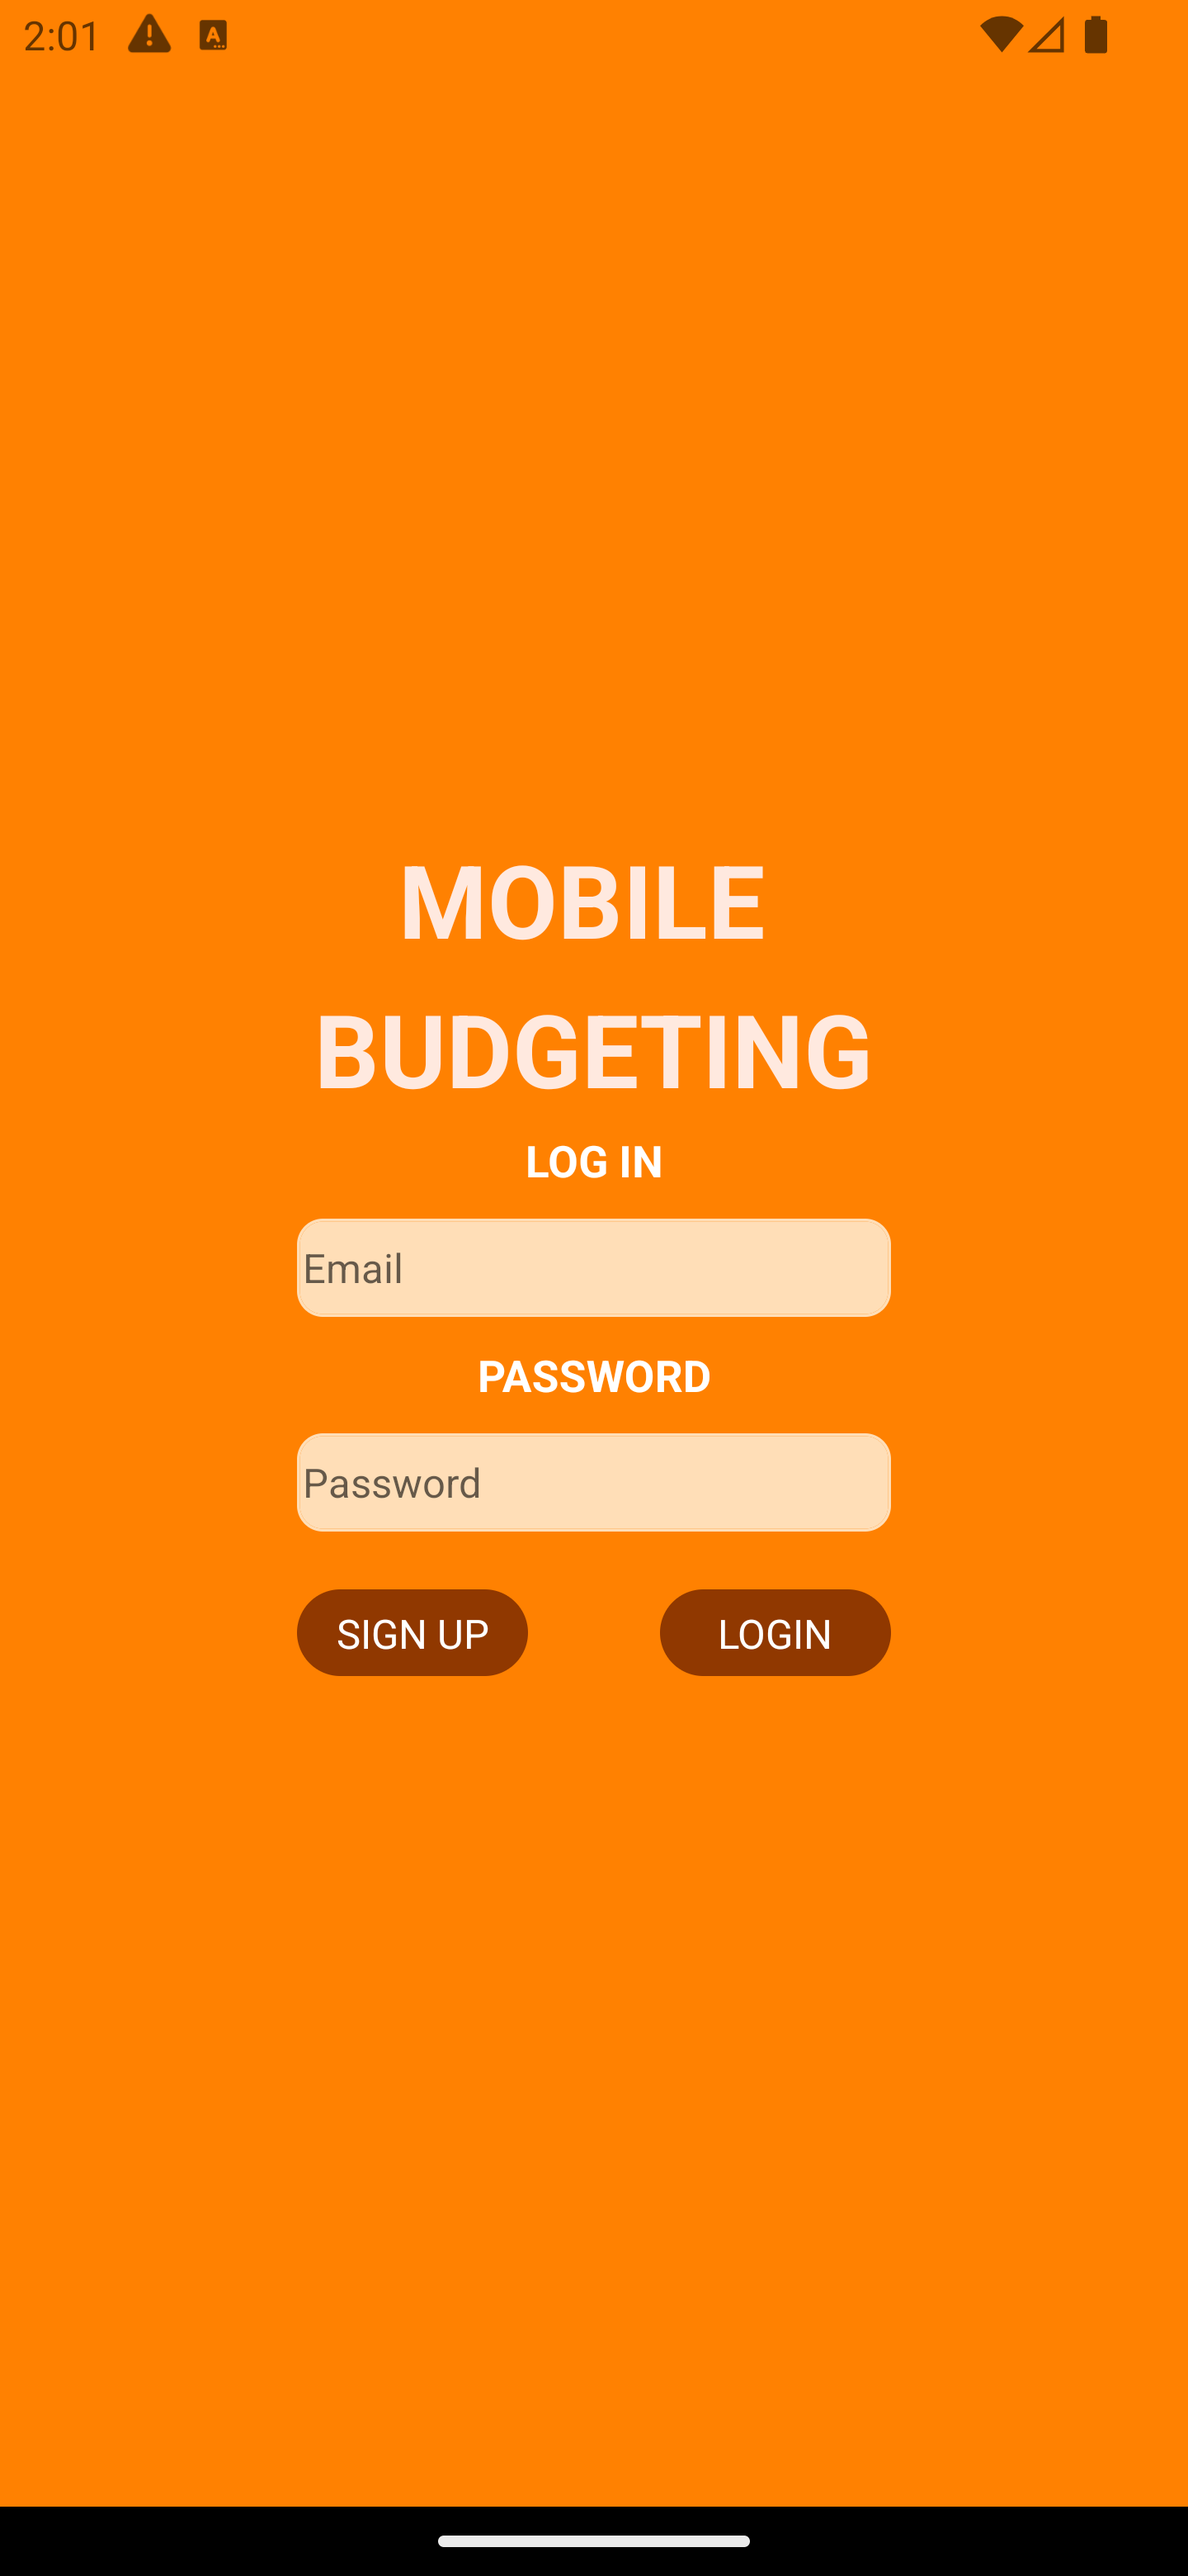
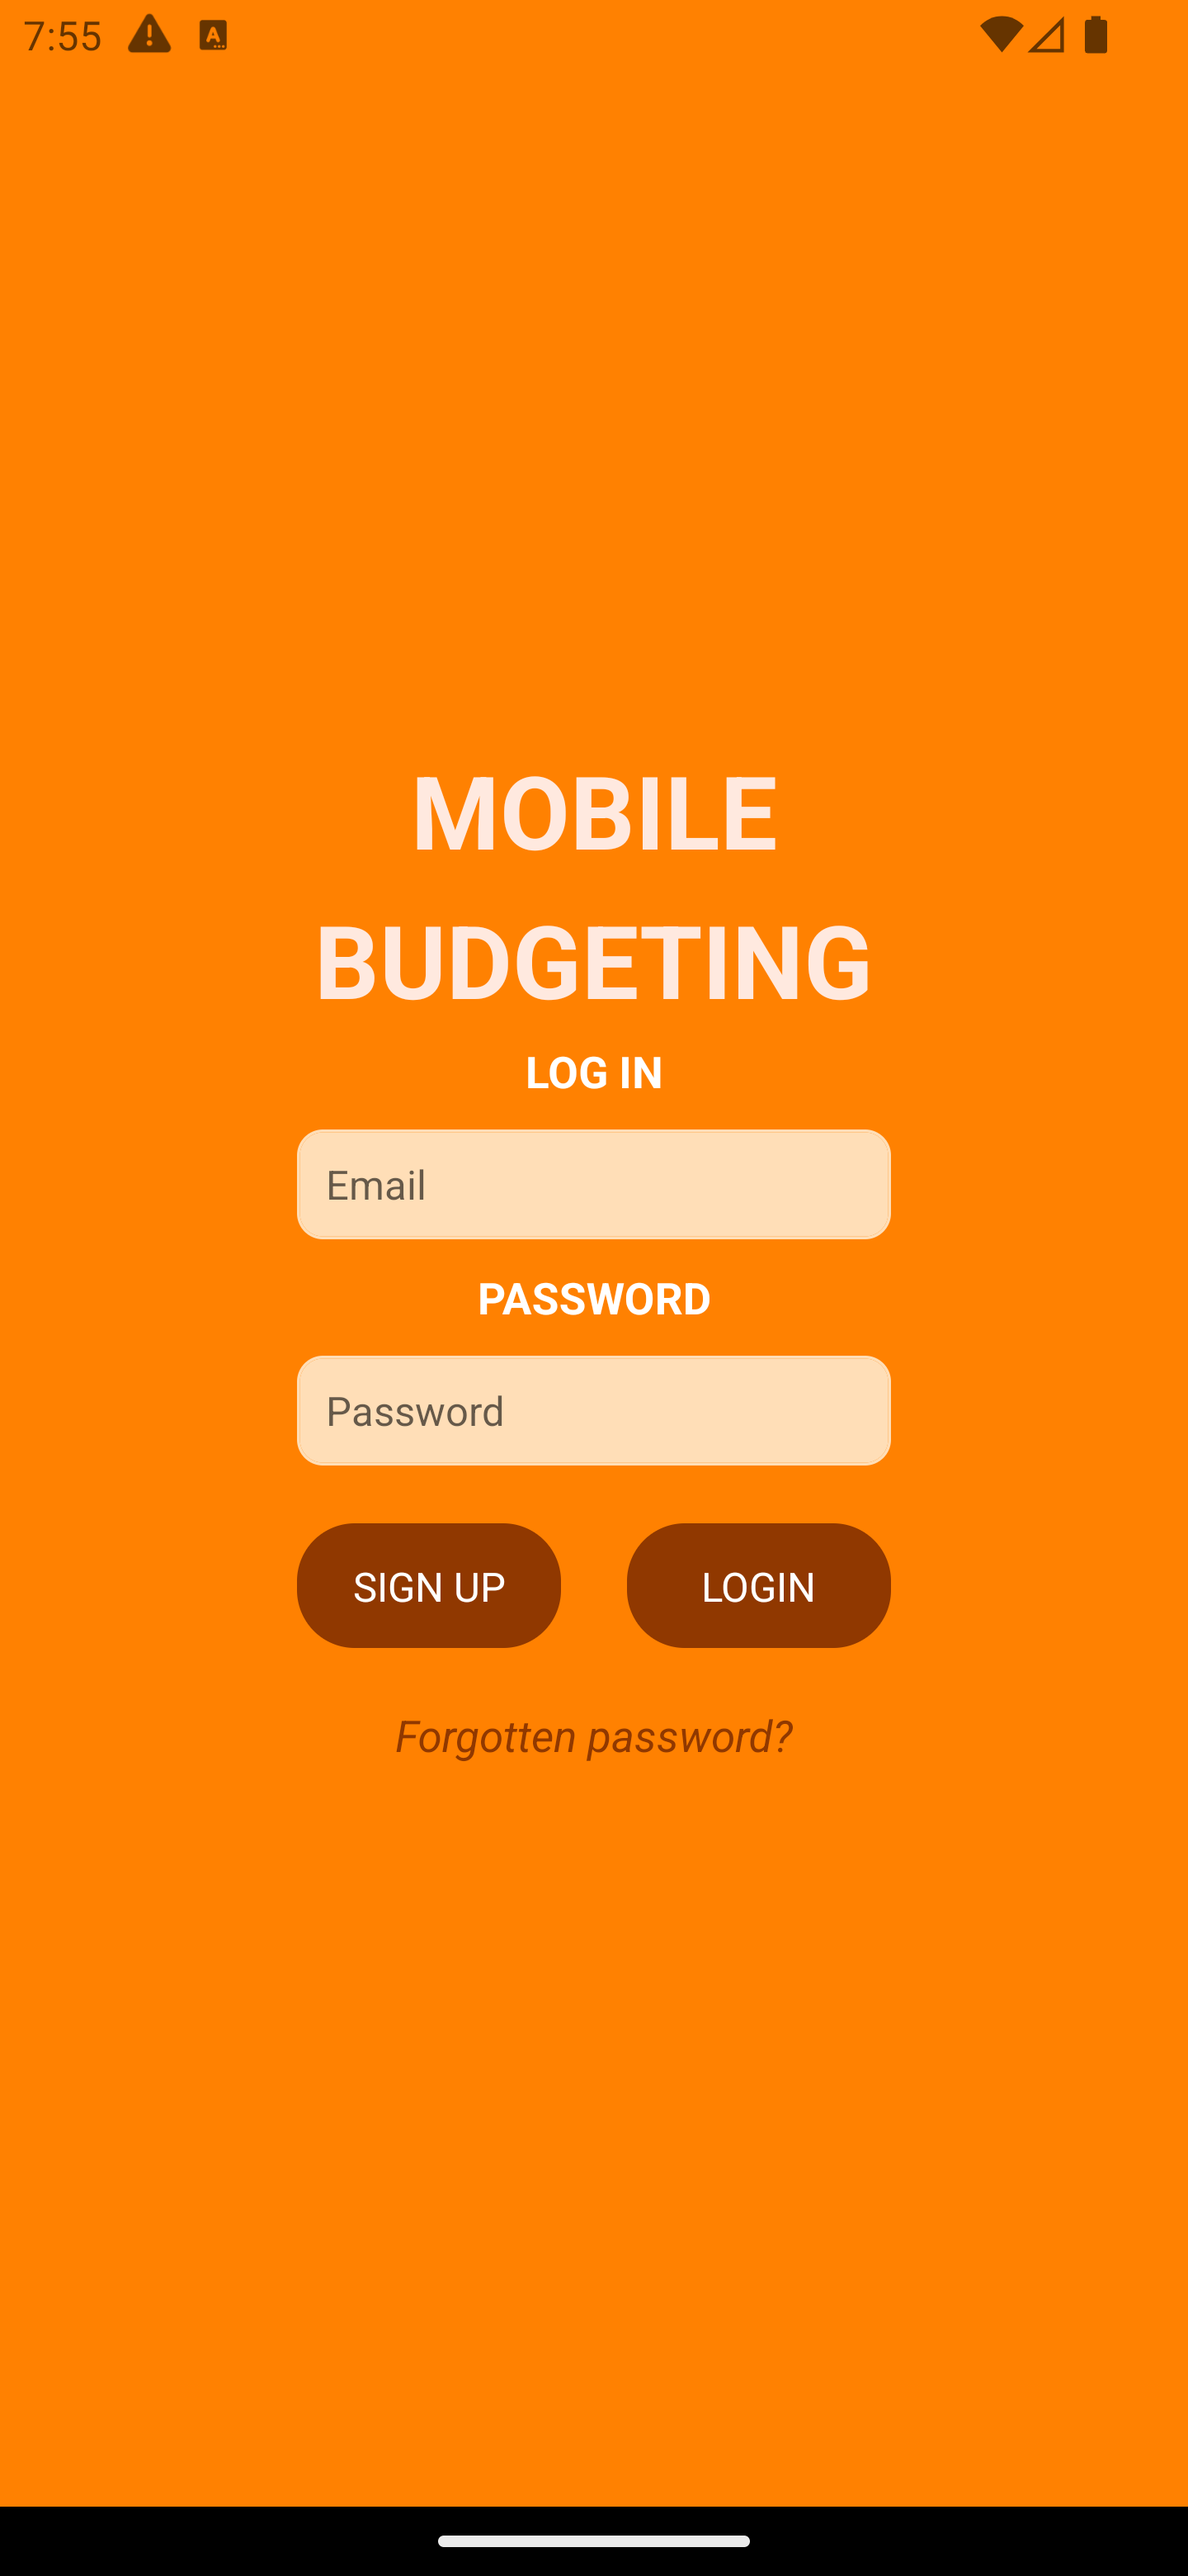
Updated readme images
Waiting for advice, news, and profile

Changed region(s): [[0.25, 0.2798, 0.75, 0.684], [0.0625, 0.0, 0.0938, 0.0311]]

diff --git a/Readme.md b/Readme.md
@@ -21,7 +21,7 @@ The app begins on the Log-in page. The can fill in the account related entry pro
 
 ### 2. Reset password
 <p align="center">
-  <img src="assets/login.png" alt="Log-in page" width="250">
+  <img src="assets/resetpass.png" alt="Reset password page" width="250">
 </p>
 The user may press the 'Forgot password?' link on the log-in page to navigate to the Reset password page. There is a single entry field for the user's email address. If the email address matches one in our user authentication database, a reset password email is sent. If the email address is unknown, an unsuccessful alert is displayed. A user's account remains unchanged until the password is successfully reset via opening a link in the sent email. Passwords must be at least 6 characters long.
 
@@ -32,6 +32,9 @@ The user may press the 'Forgot password?' link on the log-in page to navigate to
 The user is prompted to enter an email address and two matching passwords on the Sign-up page. To sign up to the app and log in with the given input, the user can press the 'sign up' button. If the email address or passwords are deemed invalid (null or too short in length), an error message will be displayed and no navigation occurs. If the user doesn't want to continue the signing up process, there is a 'go back' button to take the user back to the log in page.
 
 ### 4. Home
+<p align="center">
+  <img src="assets/home.png" alt="Home page" width="250">
+</p>
 The home page displays several buttons that when pressed, show the user the specified graph based on their income, spending, and goals. The graphs are:
 * Current Balance
 * Monthly Spending
@@ -48,9 +51,16 @@ The advice page shows local deals regarding grocery prices, entertainment deals,
 Financial articles are displayed and updated on the news page. To filter recent news based on a search query, the user can use the search bar at the top of the screen. If a user wants to read more about a featured article, the article is clickable and takes the user to its source.
 
 ### 8. Log
+<p align="center">
+  <img src="assets/log.png" alt="Log page" width="250">
+  <img src="assets/logentry.png" alt="Log entry page" width="250">
+</p>
 Users can add, track, edit, and delete their transactions on the log page. The 'new transaction' button at the top of the page takes the user to a modal to input a new transactions details and save it to the log. Within the log, transactions are ordered chronologically, with recent transactions being at the top. To delete a transaction, the user can press the bin emoticon next to their desired transaction. To edit a transaction, the user can press the transaction.
 
 ### 9. Goals
+  <img src="assets/goals.png" alt="Goal page" width="250">
+  <img src="assets/goalentry.png" alt="Goal entry page" width="250">
+</p>
 Users can add, track, edit, and delete their goals on the goals page. The 'new goal' button at the top of the page takes the user to a modal to input a new goals details and save it to the goals log. Within the log, goals are ordered chronologically, with sooner due goals being at the top. To delete a goal, the user can press the bin emoticon next to their desired goal. To edit a goal, the user can press the entry in the log.
 
 ## Authors
